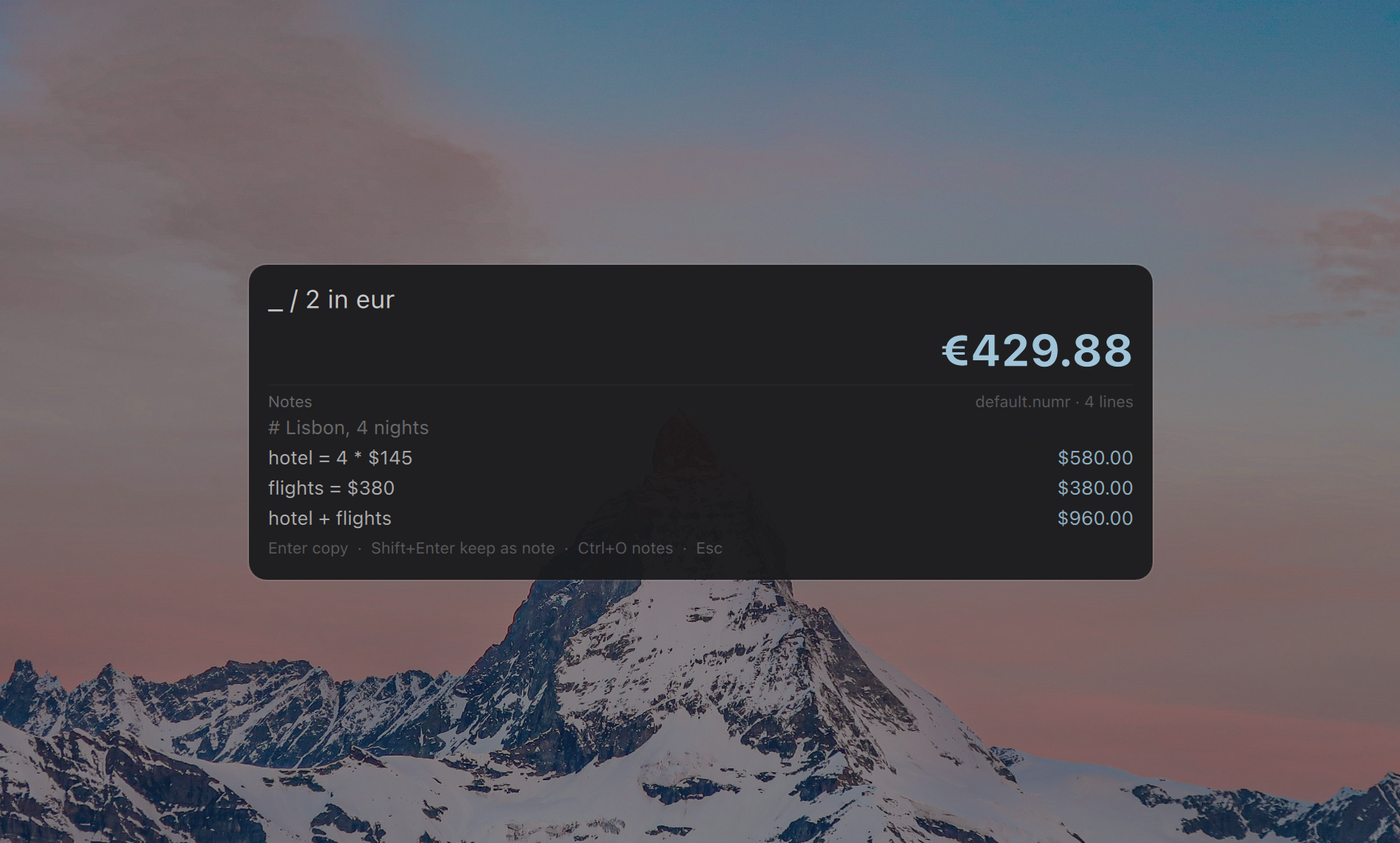
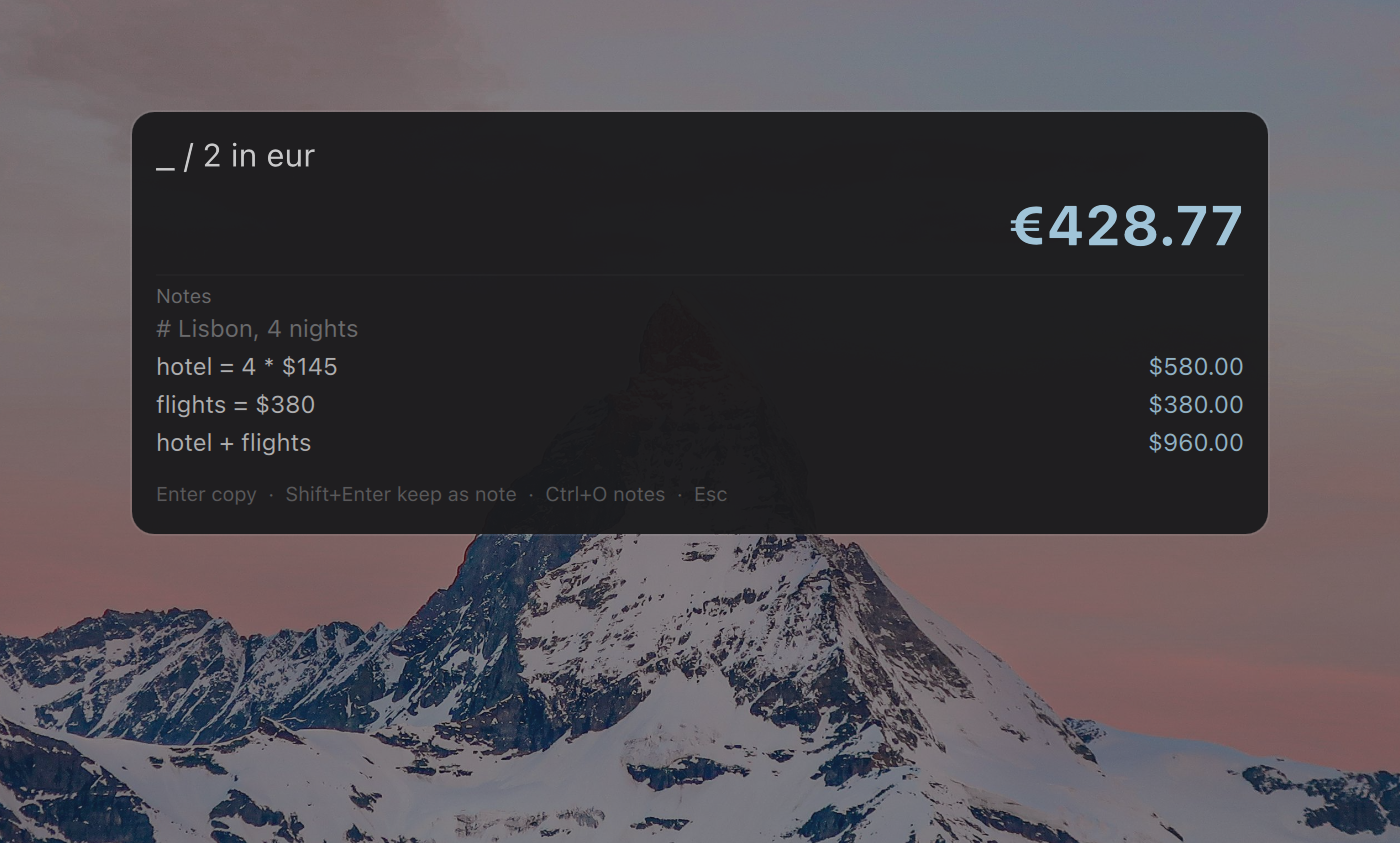
feat: quieter card, install numr-cli from the overlay, drop the bar button
- Overlay only: the bar widget is gone, --enable just loads the overlay.
- No example hints under the input and no file name / line count in the
  Notes header; the key hints stay. Wider gaps between the input, the
  result, the notes and the hint line.
- When numr-cli is missing, Enter installs numr-bin through
  omarchy-pkg-aur-add in Omarchy's floating terminal.
- scripts/capture-media.sh regenerates the README media; new screenshots.

diff --git a/Overlay.qml b/Overlay.qml
@@ -164,6 +164,14 @@ Item {
     root.setExpr("")
   }
 
+  // Omarchy's own installer flow: a floating terminal with the logo, yay asks
+  // for the password there, "Done" at the end. Nothing runs without the
+  // keypress, and the next open re-checks the binary.
+  function installNumr() {
+    Util.execArgv(["omarchy-launch-floating-terminal-with-presentation", "omarchy-pkg-aur-add numr-bin"])
+    root.dismiss()
+  }
+
   function openNotes() {
     Util.execArgv(["omarchy-launch-or-focus-tui", "numr", root.notesFile])
     root.dismiss()
@@ -214,7 +222,8 @@ Item {
       if (root.expr) root.setExpr("")
       else root.dismiss()
     } else if (event.key === Qt.Key_Return || event.key === Qt.Key_Enter) {
-      if (shift) root.appendToNotes()
+      if (root.serverBroken) root.installNumr()
+      else if (shift) root.appendToNotes()
       else root.copyResult(false, true)
     } else if (ctrl && event.key === Qt.Key_O) {
       root.openNotes()
@@ -395,7 +404,7 @@ Item {
         anchors.topMargin: card.contentTopInset
         anchors.leftMargin: card.contentLeftInset
         anchors.rightMargin: card.contentRightInset
-        spacing: Style.spacing.sm
+        spacing: Style.spacing.lg
 
         // The input line: just the text and a caret, no chrome.
         Item {
@@ -429,7 +438,8 @@ Item {
         // the card does not jump between results.
         Item {
           width: parent.width
-          height: root.expr ? root.resultLineHeight : hintText.implicitHeight
+          height: root.resultLineHeight
+          visible: root.expr !== ""
 
           Text {
             id: resultText
@@ -445,21 +455,6 @@ Item {
             font.family: root.fontFamily
             font.pixelSize: root.resultIsError ? Style.font.subtitle : Style.font.displayLarge
             font.bold: !root.resultIsError
-          }
-
-          Text {
-            id: hintText
-            visible: !root.expr
-            textFormat: Text.PlainText
-            text: root.serverBroken
-              ? "numr-cli is not available. Install numr (AUR: numr-bin) and reopen."
-              : "20% of 150  ·  5 km in miles  ·  $100 in eur  ·  2 h + 30 min"
-            width: parent.width
-            elide: Text.ElideRight
-            color: root.serverBroken ? Commons.Color.urgent : root.foreground
-            opacity: root.serverBroken ? 0.9 : 0.4
-            font.family: root.fontFamily
-            font.pixelSize: Style.font.caption
           }
         }
 
@@ -488,17 +483,6 @@ Item {
               anchors.bottom: parent.bottom
               color: root.foreground
               opacity: 0.45
-              font.family: root.fontFamily
-              font.pixelSize: Style.font.caption
-            }
-
-            Text {
-              textFormat: Text.PlainText
-              text: Model.fileLabel(root.notesFile) + " · " + root.notesLines.length + (root.notesLines.length === 1 ? " line" : " lines")
-              anchors.right: parent.right
-              anchors.bottom: parent.bottom
-              color: root.foreground
-              opacity: 0.35
               font.family: root.fontFamily
               font.pixelSize: Style.font.caption
             }
@@ -549,14 +533,18 @@ Item {
           }
         }
 
-        // One quiet line of guidance, replaced by a short status after an action.
+        // One quiet line of key hints, replaced by a short status after an
+        // action, or by the install prompt when numr-cli is missing.
         Text {
           width: parent.width
+          topPadding: Style.spacing.md
           textFormat: Text.PlainText
-          text: root.status || "Enter copy  ·  Shift+Enter keep as note  ·  Ctrl+O notes  ·  Esc"
+          text: root.status
+            || (root.serverBroken ? "numr is not installed yet  ·  Enter installs it with Omarchy (AUR numr-bin)"
+                                  : "Enter copy  ·  Shift+Enter keep as note  ·  Ctrl+O notes  ·  Esc")
           elide: Text.ElideRight
-          color: root.status ? root.accent : root.foreground
-          opacity: root.status ? 0.95 : 0.35
+          color: root.status ? root.accent : (root.serverBroken ? Commons.Color.urgent : root.foreground)
+          opacity: root.status ? 0.95 : (root.serverBroken ? 0.9 : 0.35)
           font.family: root.fontFamily
           font.pixelSize: Style.font.caption
         }

diff --git a/README.md b/README.md
@@ -15,8 +15,8 @@ started on first use, answers every keystroke over JSON-RPC.
 ## Requirements
 
 - Omarchy Quattro 4.0.3 or later (Hyprland session)
-- `numr-cli` 0.9 or later in `PATH`. On Arch it is the AUR package
-  `numr-bin` (or `numr` to build from source)
+- `numr-cli` 0.9 or later in `PATH`. If it is missing, the overlay offers to
+  install the AUR package `numr-bin` through Omarchy's own installer on Enter
 - `wl-copy` from `wl-clipboard`, which Omarchy installs by default
 
 No sudo or pkexec is required. The plugin never touches system files.
@@ -27,9 +27,7 @@ No sudo or pkexec is required. The plugin never touches system files.
 omarchy plugin add https://github.com/nasedkinpv/omarchy-numr.git --enable
 ```
 
-`--enable` puts a small  button in the bar's right section:
-
-![The right section of the Omarchy bar, with the numr calculator button between the keyboard layout and battery widgets](docs/bar.png)
+`--enable` loads the overlay into the shell; nothing is added to the bar.
 
 The calculator itself is an overlay you can open from anywhere:
 
@@ -116,11 +114,13 @@ the document: it sees every variable and can continue the previous result
   never on a command line, so other local accounts cannot read your
   calculations from the process list.
 - Runs `numr-cli`, `wl-copy`, and `omarchy-launch-or-focus-tui numr` from your
-  session. Network access happens only inside `numr-cli`, and only to fetch
-  exchange rates: when you press `Ctrl+R`, or when the calculator opens and the
-  cache is older than an hour (numr's own expiry, after which it would silently
-  fall back to built-in default rates). A failed refresh is retried no sooner
-  than ten minutes later.
+  session. When `numr-cli` is missing, Enter opens Omarchy's floating install
+  terminal for `numr-bin`; nothing is installed without that keypress. Network
+  access happens only inside `numr-cli`, and only to fetch exchange rates: when
+  you press `Ctrl+R`, or when the calculator opens and the cache is older than
+  an hour (numr's own expiry, after which it would silently fall back to built-
+  in default rates). A failed refresh is retried no sooner than ten minutes
+  later.
 - Writes nothing else. Your `shell.json`, Hyprland and menu files are left
   alone.
 
@@ -137,14 +137,15 @@ and stays where it is.
 
 ```bash
 omarchy plugin validate .
-qmllint -I "$OMARCHY_PATH/shell" Overlay.qml BarWidget.qml
+qmllint -I "$OMARCHY_PATH/shell" Overlay.qml
 node --test test/
 ```
 
 The pure logic lives in `NumrModel.js`, which both the overlay and the Node
 test load. The overlay is kept loaded between summons, so after editing an
 installed copy run `omarchy-restart-shell`; a rescan alone keeps the old
-instance.
+instance. `scripts/capture-media.sh` regenerates the README screenshots
+and `preview.png` on Hyprland.
 
 ## License
 
